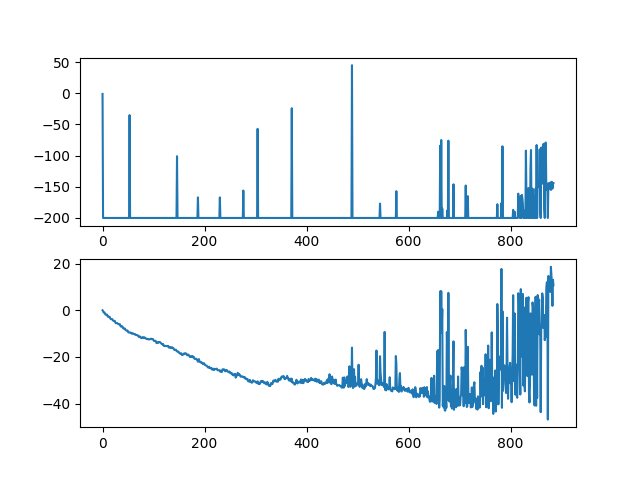
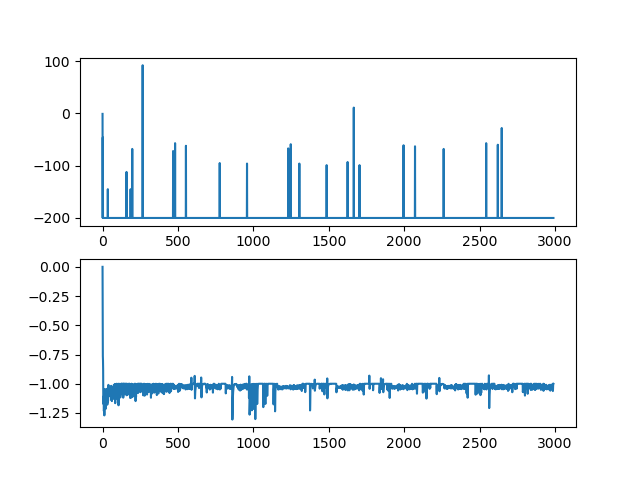
update mounatainCar

diff --git a/model_free/mountainCar_dqn/dqn_agent.py b/model_free/mountainCar_dqn/dqn_agent.py
@@ -12,10 +12,10 @@ class DQNAgent(object):
     def __init__(self, env, is_test=False):
 
         # hyperparameter
-        self.BATCH_SIZE = 64
+        self.BATCH_SIZE = 32
         self.LEARNING_RATE = 0.001
-        self.replay_memory_size = 100000
-        self.replay_start_size = 10000
+        self.replay_memory_size = 40000
+        self.replay_start_size = 5000
         self.discount_factor = 0.99
         self.target_network_update_frequency = 5
 
@@ -105,17 +105,26 @@ class DQNAgent(object):
 
                 states.append((self.replay_memory[random_index][0]))
                 actions.append((self.replay_memory[random_index][1]))
-                rewards.append(self.replay_memory[random_index][2])
-                next_states.append(self.replay_memory[random_index][3])
-                dones.append(self.replay_memory[random_index][4])
+                sampled_reward = self.replay_memory[random_index][2]
+                sampled_done = self.replay_memory[random_index][4]
+                sampled_next_state = self.replay_memory[random_index][3]
 
-                # calculate target
-                target = dones[-1] * rewards[-1] \
-                         + (1 - dones[-1]) * (rewards[-1] + self.discount_factor
-                                              * np.amax(self.target_q.model(next_states[-1])))
+                # argmax action from current q
+                argmax_action = np.argmax(self.q.model(sampled_next_state)[1])
+                argmax_action = tf.one_hot(argmax_action, self.action_dim)
+
+                target_v, target_a = self.target_q.model(sampled_next_state)
+                target_q = target_v + (target_a - tf.reduce_mean(target_a))
+
+                # Double dqn
+                target = sampled_done * sampled_reward \
+                         + (1 - sampled_done) * (sampled_reward + self.discount_factor
+                                                 * (np.dot(target_q, argmax_action)))
                 targets.append(target)
 
-                mean_q_value += np.mean(self.q.model(state))
+                v, a = self.q.model(state)
+                q = v + (a - tf.reduce_mean(a))
+                mean_q_value += np.mean(q)
 
                 if len(targets) == self.BATCH_SIZE:
 

diff --git a/model_free/mountainCar_dqn/dqn_neural_net.py b/model_free/mountainCar_dqn/dqn_neural_net.py
@@ -10,14 +10,20 @@ class DeepQNetwork(Model):
         self.inputs = Input(shape=(1, state_dim))
         self.d1 = Dense(64, activation='relu')
         self.d2 = Dense(32, activation='relu')
-        self.d3 = Dense(16, activation='relu')
-        self.v_output = Dense(action_dim, activation='linear')
+        self.d3_v = Dense(16, activation='relu')
+        self.d3_a = Dense(16, activation='relu')
+        self.d_v = Dense(1)
+        self.d_a = Dense(action_dim)
 
     def call(self, x):
-        output = self.d1(x)
-        output = self.d2(output)
-        output = self.d3(output)
-        return self.v_output(output)
+        x = self.d1(x)
+        x = self.d2(x)
+        v = self.d3_v(x)
+        v = self.d_v(v)
+        a = self.d3_a(x)
+        a = self.d_a(a)
+        # output = v + (a - tf.reduce_mean(a))
+        return v, a
 
 class DQN(object):
     def __init__(self, state_dim, action_dim, learning_rate):
@@ -45,7 +51,8 @@ class DQN(object):
         if self.final_exploration < self.initial_exploration:
             self.initial_exploration -= 1.0 / self.final_exploration_frame
         with tf.GradientTape() as g:
-            q_values = self.model(states)
+            v, a = self.model(states)
+            q_values = v + (a - tf.reduce_mean(a))
             q_values_with_actions = tf.reduce_sum(q_values * actions, axis=1)
             loss = 0.5*((td_targets-q_values_with_actions)**2)
         g_theta = g.gradient(loss, self.model.trainable_weights)
@@ -56,7 +63,7 @@ class DQN(object):
         if self.initial_exploration >= np.random.rand() and not is_test:
             return np.random.randint(self.action_dim)
         else:
-            return np.argmax(self.model(state)[0])
+            return np.argmax(self.model(state)[1])
 
 
     def save_weights(self, path):

diff --git a/model_free/atari_dqn/dqn_agent.py b/model_free/atari_dqn/dqn_agent.py
@@ -115,7 +115,6 @@ class Agent(object):
 
                 mean_q_value += np.mean(self.q.model(seq))
 
-                # train for each 4 frames
                 if len(targets) == self.batch_size:
                     input_seqs = np.reshape(seqs,
                                             (self.batch_size, self.frame_size, self.frame_size,
@@ -183,13 +182,6 @@ class Agent(object):
             next_seq = np.append(self.preprocess(observation), seq[..., :3], axis=3)
             # store transition in replay memory
             seq = next_seq
-
-            if done:
-                train_ep += 1
-                print('Episode: {}, Reward: {}, Epsilon: {:.5f}, Q-value: {}'.format(train_ep,
-                                                                                     episode_reward,
-                                                                                     self.q.epsilon,
-                                                                                     mean_q_value / frames))
 
     # graph episodes and rewards
     def plot_result(self):

diff --git a/model_free/mountainCar_dqn/dqn_test.py b/model_free/mountainCar_dqn/dqn_test.py
@@ -2,11 +2,6 @@ import gym
 from dqn_agent import DQNAgent
 import tensorflow as tf
 
-physical_devices = tf.config.list_physical_devices('GPU')
-tf.config.experimental.set_memory_growth(
-    physical_devices[0], True
-)
-
 def main():
 
     # environment
